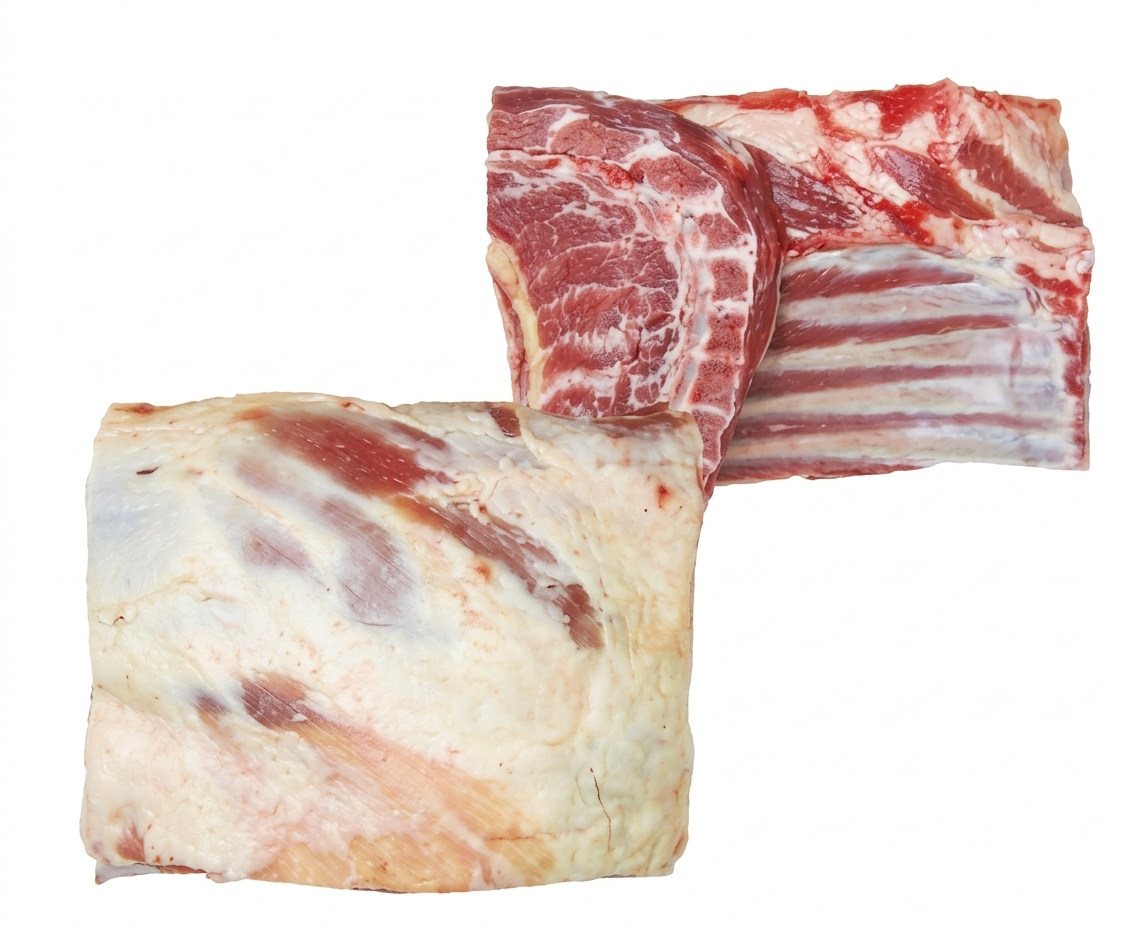
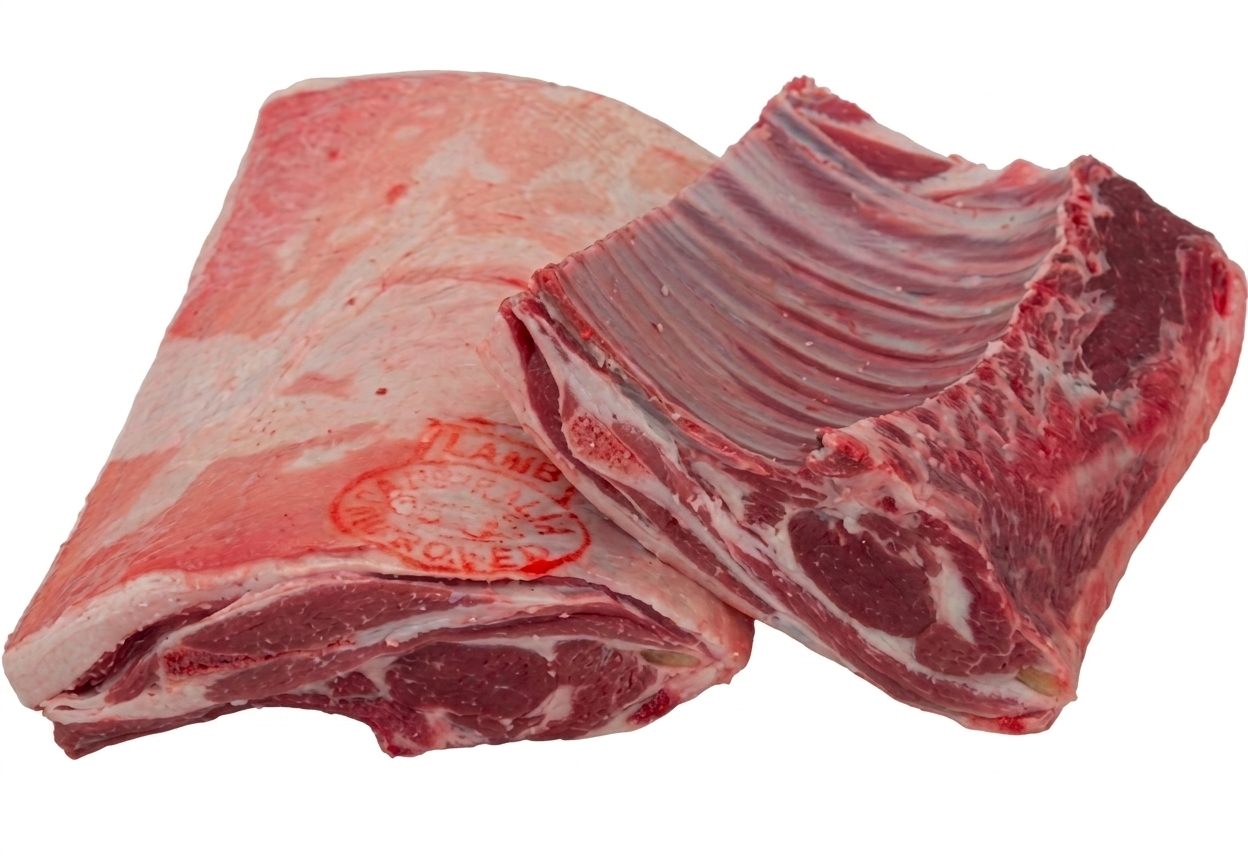
more updates to products

diff --git a/lib/product-images.ts b/lib/product-images.ts
@@ -91,6 +91,7 @@ import imgGuruLuckyFijiMix from '@/public/images/guru-lucky-fiji-mix.jpeg';
 import imgGuruLuckySpicyGarlicPeas from '@/public/images/guru-lucky-spicy-garlic-peas.jpeg';
 import imgGuruLuckyPeasPeanuts from '@/public/images/guru-lucky-peas-peanuts.jpeg';
 import imgGuruLuckyCornflakesChewra from '@/public/images/guru-lucky-cornflakes-chewra.jpeg';
+import imgGuruLuckyLakhriMeethai from '@/public/images/guru-lucky-lakhri-meethai.png';
 import imgBongoCheeseSnack156gr from '@/public/images/bongo-cheese-snack-156gr.png';
 import imgBongoCheeseSnack64gr from '@/public/images/bongo-cheese-snack-64gr.png';
 import imgBongoCheeseSnack28gr from '@/public/images/bongo-cheese-snack-28gr.png';
@@ -334,6 +335,7 @@ export const PRODUCT_IMAGE_BY_SLUG: Record<ProductSlug, StaticImageData> = {
 	'guru-lucky-spicy-garlic-peas': imgGuruLuckySpicyGarlicPeas,
 	'guru-lucky-peas-peanuts': imgGuruLuckyPeasPeanuts,
 	'guru-lucky-cornflakes-chewra': imgGuruLuckyCornflakesChewra,
+	'guru-lucky-lakhri-meethai': imgGuruLuckyLakhriMeethai,
 	'bongo-cheese-snack-156gr': imgBongoCheeseSnack156gr,
 	'bongo-cheese-snack-64gr': imgBongoCheeseSnack64gr,
 	'bongo-cheese-snack-28gr': imgBongoCheeseSnack28gr,
@@ -579,6 +581,7 @@ export const PRODUCT_IMAGE_PATH_BY_SLUG: Record<ProductSlug, string> = {
 	'guru-lucky-spicy-garlic-peas': '/images/guru-lucky-spicy-garlic-peas.jpeg',
 	'guru-lucky-peas-peanuts': '/images/guru-lucky-peas-peanuts.jpeg',
 	'guru-lucky-cornflakes-chewra': '/images/guru-lucky-cornflakes-chewra.jpeg',
+	'guru-lucky-lakhri-meethai': '/images/guru-lucky-lakhri-meethai.png',
 	'bongo-cheese-snack-156gr': '/images/bongo-cheese-snack-156gr.png',
 	'bongo-cheese-snack-64gr': '/images/bongo-cheese-snack-64gr.png',
 	'bongo-cheese-snack-28gr': '/images/bongo-cheese-snack-28gr.png',

diff --git a/lib/products.ts b/lib/products.ts
@@ -98,6 +98,7 @@ export const PRODUCT_SLUGS = [
 	'guru-lucky-spicy-garlic-peas',
 	'guru-lucky-peas-peanuts',
 	'guru-lucky-cornflakes-chewra',
+	'guru-lucky-lakhri-meethai',
 	'bongo-cheese-snack-156gr',
 	'bongo-cheese-snack-64gr',
 	'bongo-cheese-snack-28gr',
